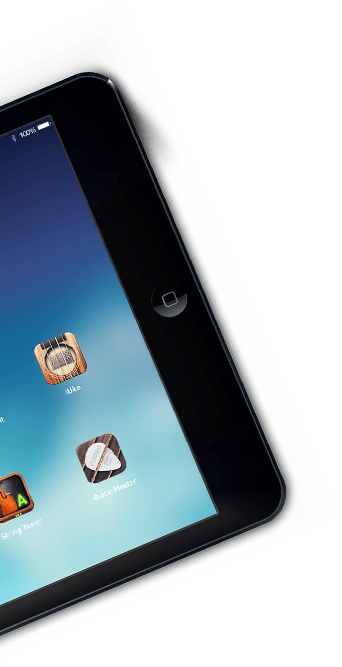
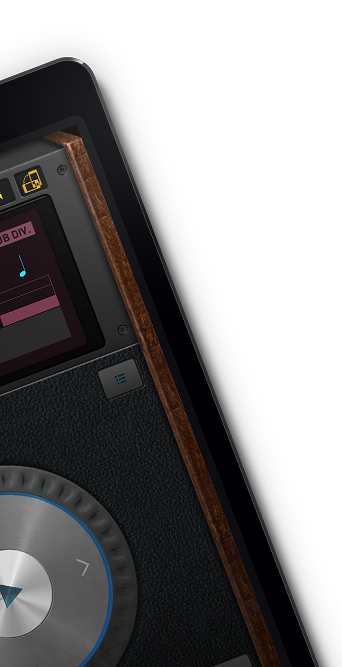
updated site style

diff --git a/assets/styles/scss/home2.scss b/assets/styles/scss/home2.scss
@@ -104,9 +104,9 @@ body.insec-intro #fp-nav span, .fp-slidesNav span{
 }
 
 #main-iphone{
-    height: 471px;
-    width: 216px;
-    background: transparent no-repeat center url('/assets/images/main/home-iphone5back-small.png');
+    height: 502px;
+    width: 230px;
+    background: transparent no-repeat center url('/assets/images/main/home-iphone6.png');
     position: absolute;
     top: 50%;
     right: 0;
@@ -441,7 +441,7 @@ img#img-uke-app-sc-uketube.uke-app-sc{
             -webkit-transform: scale(0.6);
             transform: scale(0.6);
             margin-top: -100px;
-            margin-left: 120px;
+            margin-left: 100px;
         }
         #sec-uke.tms img#img-uke-app-sc-ukehero.uke-app-sc,
         #sec-uke.tms img#img-uke-app-sc-chordtunes.uke-app-sc,

diff --git a/assets/styles/home2.css b/assets/styles/home2.css
@@ -125,9 +125,9 @@ body.insec-intro #fp-nav span, .fp-slidesNav span {
 }
 
 #main-iphone {
-  height: 471px;
-  width: 216px;
-  background: transparent no-repeat center url("/assets/images/main/home-iphone5back-small.png");
+  height: 502px;
+  width: 230px;
+  background: transparent no-repeat center url("/assets/images/main/home-iphone6.png");
   position: absolute;
   top: 50%;
   right: 0;
@@ -481,7 +481,7 @@ img#img-uke-app-sc-uketube.uke-app-sc {
   -webkit-transform: scale(0.6);
   transform: scale(0.6);
   margin-top: -100px;
-  margin-left: 120px;
+  margin-left: 100px;
 }
 
 #sec-uke.tms img#img-uke-app-sc-ukehero.uke-app-sc,

diff --git a/assets/styles/iuke2.css b/assets/styles/iuke2.css
@@ -394,15 +394,18 @@ div.mute a:hover {
   background-size: cover;
 }
 .record .slogan {
-  font-size: 52px;
+  font-size: 44px;
   font-weight: 400;
   text-shadow: none;
-  margin: 100px 0 0 100px;
+  margin: 140px 0 0 30px;
+  opacity: 0.7;
 }
 .record .slogan-desc {
   text-shadow: none;
   padding-top: 0;
-  margin: 0 0 0 100px;
+  margin: 0 0 0 30px;
+  font-size: 22px;
+  opacity: 0.8;
 }
 .record .container {
   max-width: 1200px;

diff --git a/assets/styles/scss/iuke2.scss b/assets/styles/scss/iuke2.scss
@@ -427,16 +427,19 @@ div.mute{
   @include background-size(cover);
 
   .slogan {
-    font-size: 52px;
+    font-size: 44px;
     font-weight: 400;
     text-shadow: none;
-    margin: 100px 0 0 100px;
+    margin: 140px 0 0 30px;
+	opacity: 0.7;
   }
 
   .slogan-desc {
     text-shadow: none;
 	padding-top: 0;
-	margin: 0 0 0 100px;
+	margin: 0 0 0 30px;
+	font-size: 22px;
+	opacity: 0.8;
   }
   .container{
     max-width: 1200px;
